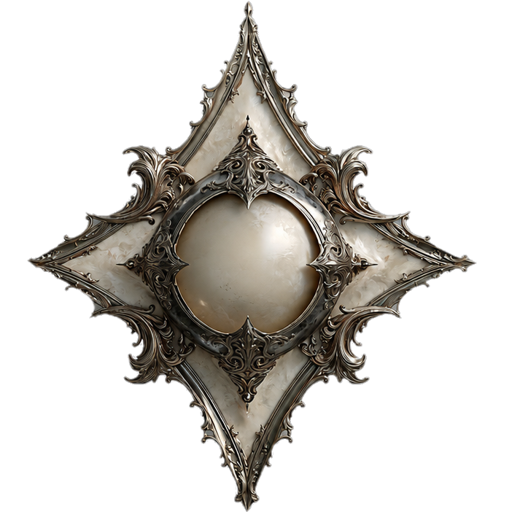
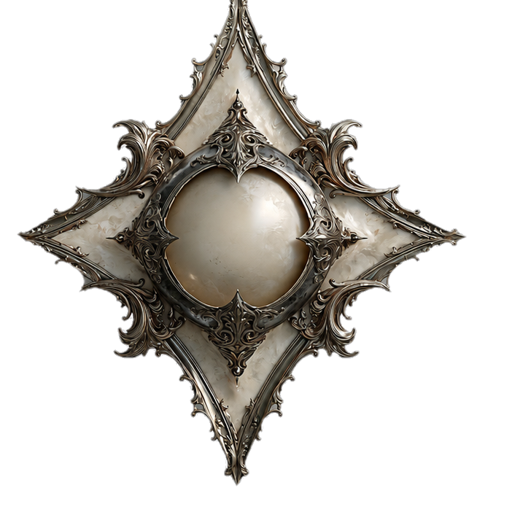
Relic frames: seat the gem in the actual socket (not the geometric centre)
The socket in each diamond sits low-and-right of the frame's geometric centre (the
art has a tall decorative crest and heavier lower scrollwork). My automated pearl
detectors kept locking onto the silver filigree instead of the smooth dome, so every
"re-centre" pushed the gem toward the geometric centre — away from the socket. Verified
by eye with a gem-ring overlay: the socket needs ~+3% x / +5% y. Re-exported all three
frames shifted so the socket lands at image centre, so the CSS-centred gem seats in it.

Claude-Session: https://claude.ai/code/session_01JbsNTb2Jvjps6CqMJRSas3

diff --git a/style.css b/style.css
@@ -1488,8 +1488,8 @@ body[data-deal="house"] .hand .cicon { width: 46px; height: 46px; padding: 5px; 
 /* Relic (boss-trophy) emblems wear an ornate diamond bezel instead of the round
    medallion; the category gem seats in the diamond's central socket (smaller than
    the round frame's). Wildcard gets its own distinct diamond. */
-.charmemblem.ce-relic .ce-frame { background-image: url('assets/charms/relic-frame.png?v=2'); }
-.charmemblem.ce-relic.ce-relic-wild .ce-frame { background-image: url('assets/charms/relic-frame-wild.png?v=2'); }
+.charmemblem.ce-relic .ce-frame { background-image: url('assets/charms/relic-frame.png?v=3'); }
+.charmemblem.ce-relic.ce-relic-wild .ce-frame { background-image: url('assets/charms/relic-frame-wild.png?v=3'); }
 /* The diamond's socket is larger than the round medallion's, so the gem fills more
    of it (42% vs 37%) — a small gem left a big lit pearl showing asymmetrically, which
    read as off-centre. At this size the standard glyph fits, so no glyph rescale. */

diff --git a/index.html b/index.html
@@ -6,7 +6,7 @@
 <title>Stonelock — A Game of Regional Leverage</title>
 <link rel="preconnect" href="https://fonts.googleapis.com">
 <link href="https://fonts.googleapis.com/css2?family=Cinzel:wght@500;600;700&family=Alegreya:ital,wght@0,400;0,500;0,600;0,700;1,400;1,500&display=swap" rel="stylesheet">
-<link rel="stylesheet" href="style.css?v=317">
+<link rel="stylesheet" href="style.css?v=318">
 </head>
 <body>
 
